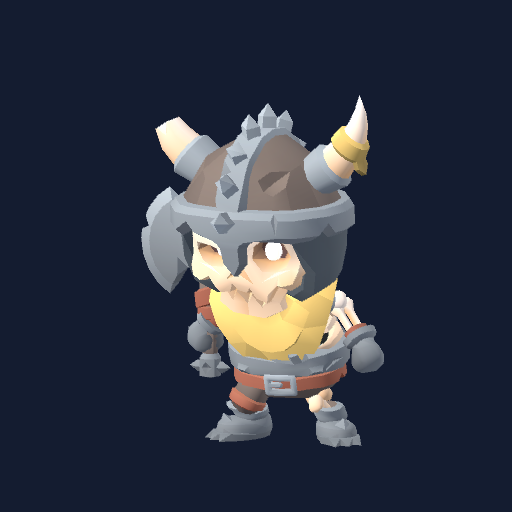
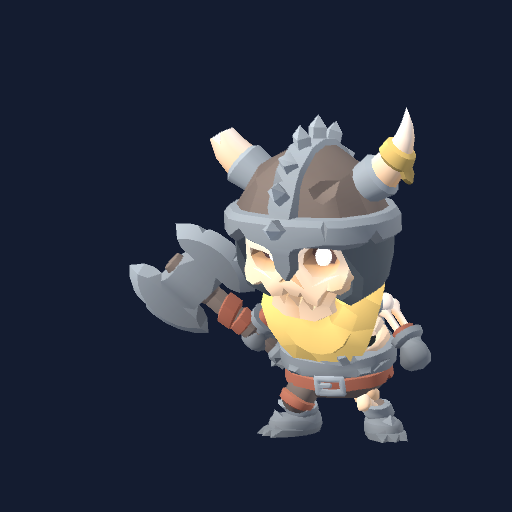
Update Pencil guide for deployed 0.6.38 skeleton loadouts

Changed region(s): [[0.25, 0.1875, 0.8438, 0.875]]

diff --git a/games/project-pencil/index.html b/games/project-pencil/index.html
@@ -110,9 +110,9 @@
 }
 </script>
 </head>
-<body><a class="skip" href="#main">Skip to content</a><header class="site-header"><div class="wrap header-inner"><a aria-label="Wobumii home" class="brand" href="/"><img alt="Wobumii" class="brand-logo" height="515" src="/assets/wobumii-wordmark.png" width="1778"/></a><nav aria-label="Main navigation"><a href="/#games">Games</a><a href="/#about">About me</a><a href="#contact">Contact</a><a class="nav-external" href="https://wobumii.itch.io/" rel="noopener noreferrer" target="_blank">itch.io <span aria-hidden="true">↗</span></a></nav></div></header><main class="wrap wiki" id="main"><a class="back-link" href="/#games">← Back to all games</a><section class="wiki-hero project-pencil"><div><p class="eyebrow">GAME GUIDE / DRAWING ADVENTURE</p><h1>Project Pencil</h1><p class="wiki-tagline">Draw your way through.</p><p>A first-person adventure where your sketches become tools, weapons, and new ways forward.</p><div class="tags"><span>IN DEVELOPMENT</span><span>PC</span></div><div aria-label="Get Project Pencil" class="store-buttons"><a class="store-button" href="https://wobumii.itch.io/project-pencil" rel="noopener noreferrer" target="_blank"><span aria-hidden="true" class="store-icon"><img alt="" height="22" src="/assets/platforms/itchdotio.svg" width="22"/></span><span class="store-label">itch.io</span><span aria-hidden="true" class="store-action">Go to itch.io <span>↗</span></span></a><button aria-disabled="true" aria-label="Steam — unavailable" class="store-button store-button--steam" disabled="" tabindex="-1" title="Not available yet" type="button"><span aria-hidden="true" class="store-icon"><img alt="" height="22" src="/assets/platforms/steam.svg" width="22"/></span><span class="store-label">Steam</span></button><button aria-disabled="true" aria-label="Epic Games — unavailable" class="store-button store-button--epic" disabled="" tabindex="-1" title="Not available yet" type="button"><span aria-hidden="true" class="store-icon"><img alt="" height="22" src="/assets/platforms/epicgames.svg" width="22"/></span><span class="store-label">Epic Games</span></button></div></div><div class="game-cover"><img alt="Project Pencil game artwork" height="500" src="/assets/project-pencil.png" width="630"/></div></section><div class="wiki-layout"><aside><nav aria-label="On this page" class="wiki-nav"><p class="eyebrow">FIELD GUIDE</p><a href="#overview">The idea</a><a href="#mechanics">From a sketch to a solution</a><a href="#equipment">Tools &amp; inventory</a><a href="#story">Story: The Fading World</a><a href="#modes">Ways to play</a><a href="#items">Items &amp; recipes</a><a href="#mobs">Mobs &amp; bosses</a><a href="#controls">PC controls</a><a href="#faq">Quick answers</a><a href="/#games">← Game collection</a></nav></aside><div class="wiki-content"><p class="dev-note">A guide to the current development version. Version 0.6.36 is deployed; 0.6.37 is prepared with updated Story narration. Mechanics and balancing may change as the game grows.</p><section class="wiki-section" id="overview"><h2>The idea</h2><p>What if the thing you needed was only a sketch away? Project Pencil is a first-person drawing adventure where recognizable shapes become real objects in the world. Discover blueprints, bring your drawings to life, and use them to explore and survive.</p><p>Start with <strong>Learn to Draw</strong>: select a map, then choose <strong>Guided lesson</strong> for the five-step tutorial or <strong>Start practice</strong> for free drawing with standard recipes unlocked. Then enter <strong>The Fading World</strong> or try multiplayer.</p>
+<body><a class="skip" href="#main">Skip to content</a><header class="site-header"><div class="wrap header-inner"><a aria-label="Wobumii home" class="brand" href="/"><img alt="Wobumii" class="brand-logo" height="515" src="/assets/wobumii-wordmark.png" width="1778"/></a><nav aria-label="Main navigation"><a href="/#games">Games</a><a href="/#about">About me</a><a href="#contact">Contact</a><a class="nav-external" href="https://wobumii.itch.io/" rel="noopener noreferrer" target="_blank">itch.io <span aria-hidden="true">↗</span></a></nav></div></header><main class="wrap wiki" id="main"><a class="back-link" href="/#games">← Back to all games</a><section class="wiki-hero project-pencil"><div><p class="eyebrow">GAME GUIDE / DRAWING ADVENTURE</p><h1>Project Pencil</h1><p class="wiki-tagline">Draw your way through.</p><p>A first-person adventure where your sketches become tools, weapons, and new ways forward.</p><div class="tags"><span>IN DEVELOPMENT</span><span>PC</span></div><div aria-label="Get Project Pencil" class="store-buttons"><a class="store-button" href="https://wobumii.itch.io/project-pencil" rel="noopener noreferrer" target="_blank"><span aria-hidden="true" class="store-icon"><img alt="" height="22" src="/assets/platforms/itchdotio.svg" width="22"/></span><span class="store-label">itch.io</span><span aria-hidden="true" class="store-action">Go to itch.io <span>↗</span></span></a><button aria-disabled="true" aria-label="Steam — unavailable" class="store-button store-button--steam" disabled="" tabindex="-1" title="Not available yet" type="button"><span aria-hidden="true" class="store-icon"><img alt="" height="22" src="/assets/platforms/steam.svg" width="22"/></span><span class="store-label">Steam</span></button><button aria-disabled="true" aria-label="Epic Games — unavailable" class="store-button store-button--epic" disabled="" tabindex="-1" title="Not available yet" type="button"><span aria-hidden="true" class="store-icon"><img alt="" height="22" src="/assets/platforms/epicgames.svg" width="22"/></span><span class="store-label">Epic Games</span></button></div></div><div class="game-cover"><img alt="Project Pencil game artwork" height="500" src="/assets/project-pencil.png" width="630"/></div></section><div class="wiki-layout"><aside><nav aria-label="On this page" class="wiki-nav"><p class="eyebrow">FIELD GUIDE</p><a href="#overview">The idea</a><a href="#mechanics">From a sketch to a solution</a><a href="#equipment">Tools &amp; inventory</a><a href="#story">Story: The Fading World</a><a href="#modes">Ways to play</a><a href="#items">Items &amp; recipes</a><a href="#mobs">Mobs &amp; bosses</a><a href="#controls">PC controls</a><a href="#faq">Quick answers</a><a href="/#games">← Game collection</a></nav></aside><div class="wiki-content"><p class="dev-note">A guide to the current development version. Version 0.6.38 is deployed. Mechanics and balancing may change as the game grows.</p><section class="wiki-section" id="overview"><h2>The idea</h2><p>What if the thing you needed was only a sketch away? Project Pencil is a first-person drawing adventure where recognizable shapes become real objects in the world. Discover blueprints, bring your drawings to life, and use them to explore and survive.</p><p>Start with <strong>Learn to Draw</strong>: select a map, then choose <strong>Guided lesson</strong> for the five-step tutorial or <strong>Start practice</strong> for free drawing with standard recipes unlocked. Then enter <strong>The Fading World</strong> or try multiplayer.</p>
 <aside aria-label="Creative work and AI disclosure" class="about-manifesto"><p class="eyebrow">CREATIVE WORK &amp; AI DISCLOSURE</p><h3>Story, mechanics &amp; assets</h3><p>The story and game mechanics are my own. The assets come from other creators, whose work is acknowledged on the <a href="/credits/">Credits page</a>.</p><p>AI is used only as a coding assistant. No AI-generated artwork was used.</p></aside>
-</section><section class="wiki-section" id="mechanics"><h2>From a sketch to a solution</h2><div class="info-grid"><article class="info-card"><h3>01 / Discover</h3><p>Recognition matches predefined recipes; rough or similar shapes can still fail. Open the Sketchbook with Tab, use V for the optional tracing outline, and Z or X to change recipes. R cancels a sketch. Nearby walls, floors and characters can also carry cosmetic ink.</p></article><article class="info-card"><h3>02 / Draw</h3><p>Select your pencil with F. Hold left click and trace a recipe shape. Release and pause for half a second to finish. Close-together strokes combine into one drawing.</p></article><article class="info-card"><h3>03 / Bring it to life</h3><p>A recognized recipe creates a physical object and spends drawing energy. Draw ordinary items in clear space, Doors on walls, and circular Holes on floors. Blueprint, energy and placement rules still apply.</p></article><article class="info-card"><h3>04 / Make it count</h3><p>Collect the object with E, then use it in the world. Draw weapons, protection, ammunition, and ways through the environment.</p></article></div><h3>Drawing tips</h3><p>Recognition uses predefined recipes, rather than turning any image into an object. Moderate tilt and size variation are accepted. Open the Sketchbook with Tab and use V for the tracing outline. Z and X change the selected drawing. R cancels a sketch.</p></section><section class="wiki-section" id="equipment"><h2>Tools &amp; inventory</h2><div class="info-grid"><article class="info-card"><h3>Weapons &amp; ammunition</h3><p>Draw and collect weapons and their ammunition separately. Melee weapons have limited uses. Reload ranged equipment with the ammunition you carry.</p></article><article class="info-card"><h3>Wearable equipment</h3><p>Equip helmets, armor, boots, quivers and pouches. Customize your scribbler’s gender, character, hairstyle, skin, hair, outfit and leg colors from the menu.</p></article><article class="info-card"><h3>Doors &amp; floor Holes</h3><p>Draw a Door near the bottom of a nearby wall. A circle on a floor creates a temporary Hole; the same circle drawn in open space is a Marble. Items need clear space away from surfaces.</p></article><article class="info-card"><h3>Five inventory slots</h3><p>Select slots with 1–5 or the mouse wheel; F returns to the permanent pencil. Ammunition stacks in the inventory. Tab opens the folder-style Sketchbook with its recipe tabs.</p></article></div></section><section class="wiki-section" id="story"><h2>Story: The Fading World</h2><p>Follow a five-map chapter through <strong>The Workshop → The Stacks → The Foundry → The Glasshouse → The Observatory</strong>. Collect the first Sword and Door blueprints in the Workshop, then draw your way into four dungeons. Clear enemies, defeat each guardian and complete the tool trial before drawing the exit Door. Named maps act as checkpoints.</p><p>The scenery gradually loses its color, becoming paper and graphite while your character retains its chosen colors and important information remains readable. Reach the Observatory’s top floor and defeat the Last Eraser to reveal its hidden Heart of Color. Collect the Heart to restore the world.</p><details><summary>Reveal the guardians and final encounter</summary><p>The four dungeon guardians are The Crypt Warlord, The Archive Yeti, The Foundry Demon, and The Glasshouse Behemoth. The finale is the Last Eraser, a huge stone titan at the Observatory rooftop edge. Dodge its warned palm smashes, leave the active pigment-absorption zone and attack its head or palms during recovery.</p></details></section><section class="wiki-section" id="modes"><h2>Ways to play</h2><div class="info-grid"><article class="info-card"><h3>Learn to Draw &amp; Story</h3><p>Choose a map for a five-step Guided lesson or free practice, with standard recipes unlocked and faster energy recovery. Story follows The Fading World through its connected maps and dungeons.</p></article><article class="info-card"><h3>Defense / 1–4 players</h3><p>Survive ten waves. Each player starts with five lives. The first four deaths bring a ten-second respawn; the fifth leaves a walking spectator soul. Wave clears do not refill lives. The final wave rallies standing players to the rooftop titan, with mounted crossbows and marble machine guns.</p></article><article class="info-card"><h3>Clash / 2–4 per team</h3><p>First to 20 eliminations, with an eight-minute round limit. A death becomes a ten-second soul interval before returning to your own court.</p></article><article class="info-card"><h3>Purge / 4–8 players</h3><p>Survive across five connected maps inside a shrinking safe zone. No respawns; eliminated players watch a survivor. The last player standing wins.</p></article></div><p>Choose Online for EOS rooms or Local Network for LAN play. Everyone needs a matching game version; the room creator runs the match and must stay connected.</p></section><section class="wiki-section" id="items"><h2>Items &amp; drawing recipes</h2><p>All <strong>30 drawable recipes</strong>, plus your permanent Pencil. The names and descriptions below follow the in-game recipe guide. Blueprint availability depends on the mode and your progress.</p><h3>Permanent</h3><div class="info-grid item-list"><article class="info-card item-card" id="item-pencil"><img alt="" class="item-portrait" decoding="async" height="512" loading="lazy" src="/assets/item-images/pencil.png" width="512"/><h4>Pencil</h4><p>Your one permanent tool. Draw an idea into existence.</p></article></div><h3>Weapons</h3><div class="info-grid item-list"><article class="info-card item-card" id="item-knife"><img alt="" class="item-portrait" decoding="async" height="512" loading="lazy" src="/assets/item-images/knife.png" width="512"/><h4>Knife</h4><p>Quick, close-range strikes.</p></article><article class="info-card item-card" id="item-karambit"><img alt="" class="item-portrait" decoding="async" height="512" loading="lazy" src="/assets/item-images/karambit.png" width="512"/><h4>Karambit</h4><p>A hooked blade for quick slashes.</p></article><article class="info-card item-card" id="item-dagger"><img alt="" class="item-portrait" decoding="async" height="512" loading="lazy" src="/assets/item-images/dagger.png" width="512"/><h4>Dagger</h4><p>Draw a triangle on top and one straight line below for the handle. A quick primary slash.</p></article><article class="info-card item-card" id="item-sword"><img alt="" class="item-portrait" decoding="async" height="512" loading="lazy" src="/assets/item-images/sword.png" width="512"/><h4>Sword</h4><p>A balanced blade. Left: slash. Right: smash.</p></article><article class="info-card item-card" id="item-axe"><img alt="" class="item-portrait" decoding="async" height="512" loading="lazy" src="/assets/item-images/axe.png" width="512"/><h4>Axe</h4><p>Heavy blows with a slower recovery.</p></article><article class="info-card item-card" id="item-sickle"><img alt="" class="item-portrait" decoding="async" height="512" loading="lazy" src="/assets/item-images/sickle.png" width="512"/><h4>Sickle</h4><p>A curved harvesting blade.</p></article><article class="info-card item-card" id="item-nunchuck"><img alt="" class="item-portrait" decoding="async" height="512" loading="lazy" src="/assets/item-images/nunchuck.png" width="512"/><h4>Nunchaku</h4><p>Two colored handles connected by a chain.</p></article><article class="info-card item-card" id="item-hammer"><img alt="" class="item-portrait" decoding="async" height="512" loading="lazy" src="/assets/item-images/hammer.png" width="512"/><h4>Hammer</h4><p>A heavy overhead smash.</p></article><article class="info-card item-card" id="item-club"><img alt="" class="item-portrait" decoding="async" height="512" loading="lazy" src="/assets/item-images/club.png" width="512"/><h4>Club</h4><p>A simple blunt weapon.</p></article><article class="info-card item-card" id="item-thorn_club"><img alt="" class="item-portrait" decoding="async" height="512" loading="lazy" src="/assets/item-images/thorn_club.png" width="512"/><h4>Thorn Club</h4><p>A wooden club with short thorns around its rounded head.</p></article><article class="info-card item-card" id="item-bat"><img alt="" class="item-portrait" decoding="async" height="512" loading="lazy" src="/assets/item-images/bat.png" width="512"/><h4>Bat</h4><p>A round wooden bat with a narrow grip. Long reach and a broad swing.</p></article><article class="info-card item-card" id="item-slingshot"><img alt="" class="item-portrait" decoding="async" height="512" loading="lazy" src="/assets/item-images/slingshot.png" width="512"/><h4>Slingshot</h4><p>Consumes marbles from your backpack.</p></article><article class="info-card item-card" id="item-bow"><img alt="" class="item-portrait" decoding="async" height="512" loading="lazy" src="/assets/item-images/bow.png" width="512"/><h4>Bow</h4><p>Draw a D in one stroke. Uses arrows drawn separately.</p></article><article class="info-card item-card" id="item-bomb"><img alt="" class="item-portrait" decoding="async" height="512" loading="lazy" src="/assets/item-images/bomb.png" width="512"/><h4>Bomb</h4><p>Throw to light a three-second fuse.</p></article><article class="info-card item-card" id="item-bowling_ball"><img alt="" class="item-portrait" decoding="async" height="512" loading="lazy" src="/assets/item-images/bowling_ball.png" width="512"/><h4>Bowling Ball</h4><p>Falling speed increases impact damage.</p></article></div><h3>Ammunition</h3><div class="info-grid item-list"><article class="info-card item-card" id="item-shuriken"><img alt="" class="item-portrait" decoding="async" height="512" loading="lazy" src="/assets/item-images/shuriken.png" width="512"/><h4>Shuriken</h4><p>Draw a four-point star or a simple cross. Spins and sticks to solid surfaces.</p></article><article class="info-card item-card" id="item-pebbles"><img alt="" class="item-portrait" decoding="async" height="512" loading="lazy" src="/assets/item-images/pebbles.png" width="512"/><h4>Marble</h4><p>Adds one marble to your backpack.</p></article><article class="info-card item-card" id="item-arrows"><img alt="" class="item-portrait" decoding="async" height="512" loading="lazy" src="/assets/item-images/arrows.png" width="512"/><h4>Arrows</h4><p>Draw a straight shaft and both sides of an open arrowhead. No tail feathers needed. Adds one arrow.</p></article></div><h3>Armor</h3><div class="info-grid item-list"><article class="info-card item-card" id="item-helm"><img alt="" class="item-portrait" decoding="async" height="512" loading="lazy" src="/assets/item-images/helm.png" width="512"/><h4>Helm</h4><p>Equip for 15 armor points.</p></article><article class="info-card item-card" id="item-plate"><img alt="" class="item-portrait" decoding="async" height="512" loading="lazy" src="/assets/item-images/plate.png" width="512"/><h4>Armor Plate</h4><p>Equip for 35 armor points.</p></article><article class="info-card item-card" id="item-boots"><img alt="" class="item-portrait" decoding="async" height="512" loading="lazy" src="/assets/item-images/boots.png" width="512"/><h4>Boots</h4><p>Equip for 15 armor points.</p></article><article class="info-card item-card" id="item-spring_boots"><img alt="" class="item-portrait" decoding="async" height="512" loading="lazy" src="/assets/item-images/spring_boots.png" width="512"/><h4>Spring Boots</h4><p>Five high jumps with no fall damage, then becomes normal boots.</p></article></div><h3>Utilities</h3><div class="info-grid item-list"><article class="info-card item-card" id="item-shield"><img alt="" class="item-portrait" decoding="async" height="512" loading="lazy" src="/assets/item-images/shield.png" width="512"/><h4>Shield</h4><p>Push enemies back without damage. Stow on your back to use other items.</p></article><article class="info-card item-card" id="item-pouch"><img alt="" class="item-portrait" decoding="async" height="512" loading="lazy" src="/assets/item-images/pouch.png" width="512"/><h4>Pouch</h4><p>Draw a vase outline with a narrow neck and wide, rounded body. Equip to carry up to 20 marbles.</p></article><article class="info-card item-card" id="item-quiver"><img alt="" class="item-portrait" decoding="async" height="512" loading="lazy" src="/assets/item-images/quiver.png" width="512"/><h4>Quiver</h4><p>Equip to increase arrow storage from 1 to 20.</p></article><article class="info-card item-card" id="item-box"><img alt="" class="item-portrait" decoding="async" height="512" loading="lazy" src="/assets/item-images/box.png" width="512"/><h4>Box</h4><p>Draw a square. A solid step or barricade lasting two minutes.</p></article><article class="info-card item-card" id="item-portal"><img alt="" class="item-portrait" decoding="async" height="512" loading="lazy" src="/assets/item-images/portal.png" width="512"/><h4>Door</h4><p>Draw a rectangle with a small circle inside for the doorknob. Draw near the wall bottom; both doors snap to the floor.</p></article><article class="info-card item-card" id="item-hole"><img alt="" class="item-portrait" decoding="async" height="512" loading="lazy" src="/assets/item-images/hole.png" width="512"/><h4>Hole</h4><p>Draw a circle on a nearby floor within 12 feet; an X inside is optional. Size follows your drawing; ground floors become pits. The floor and its artwork return when the Hole expires.</p></article></div><h3>Optional secret recipes</h3><p>Enable Secret recipes in Settings to reveal their drawing guides.</p><div class="info-grid item-list"><article class="info-card item-card" id="item-secret_bomb"><img alt="" class="item-portrait" decoding="async" height="512" loading="lazy" src="/assets/item-images/secret_bomb.png" width="512"/><h4>Secret Bomb</h4><p>An optional sticky explosive. It sticks on impact; drawing size controls the blast radius.</p></article><article class="info-card item-card" id="item-claw_trap"><img alt="" class="item-portrait" decoding="async" height="512" loading="lazy" src="/assets/item-images/claw_trap.png" width="512"/><h4>Clawed Trap</h4><p>An optional drawn trap, available through the Secret recipes setting.</p></article></div></section><section class="wiki-section" id="mobs"><h2>Mobs &amp; bosses</h2><p>Skeleton minions, rogues, mages and warriors fill the dungeons and Defense waves. Guardians and the rooftop titan have their own encounters. Health and damage scale with the encounter.</p><div class="info-grid mob-list"><article class="info-card mob-card"><img alt="" class="mob-portrait" decoding="async" height="512" loading="lazy" src="/assets/mob-images/project-pencil-wraith.png" width="512"/><h3>Skeleton Minion</h3><p>Closes the distance and attacks at close range.</p></article><article class="info-card mob-card"><img alt="" class="mob-portrait" decoding="async" height="512" loading="lazy" src="/assets/mob-images/project-pencil-skitter.png" width="512"/><h3>Skeleton Rogue · Lunge</h3><p>A fast melee pursuer with a warned lunge.</p></article><article class="info-card mob-card"><img alt="" class="mob-portrait" decoding="async" height="512" loading="lazy" src="/assets/mob-images/project-pencil-spitter.png" width="512"/><h3>Skeleton Mage · Bolt</h3><p>Fires a ranged bolt; use cover or sidestep.</p></article><article class="info-card mob-card"><img alt="" class="mob-portrait" decoding="async" height="512" loading="lazy" src="/assets/mob-images/project-pencil-brute.png" width="512"/><h3>Skeleton Warrior · Slam</h3><p>A heavy melee enemy with a warned area slam.</p></article><article class="info-card mob-card"><img alt="" class="mob-portrait" decoding="async" height="512" loading="lazy" src="/assets/mob-images/project-pencil-sentinel.png" width="512"/><h3>Skeleton Warrior · Slam</h3><p>A heavy sentinel variant; leave the slam area before impact.</p></article><article class="info-card mob-card"><img alt="" class="mob-portrait" decoding="async" height="512" loading="lazy" src="/assets/mob-images/project-pencil-thorn.png" width="512"/><h3>Skeleton Mage · Volley</h3><p>Fires a spreading volley; use cover.</p></article><article class="info-card mob-card"><img alt="" class="mob-portrait" decoding="async" height="512" loading="lazy" src="/assets/mob-images/project-pencil-eraser.png" width="512"/><h3>The Last Eraser · Titan Golem</h3><p>The rooftop final boss. Avoid its palm smashes and pigment absorption, then attack its head and palms during recovery.</p></article></div><details><summary>Reveal the named dungeon guardians</summary><p>The Crypt Warlord, The Archive Yeti, The Foundry Demon, The Glasshouse Behemoth.</p></details></section><section class="wiki-section" id="controls"><h2>PC controls</h2><div class="table-scroll"><table><thead><tr><th scope="col">Key / input</th><th scope="col">Action</th></tr></thead><tbody><tr><td><kbd>W A S D / Mouse</kbd></td><td>Move / look</td></tr><tr><td><kbd>Shift / Space / C</kbd></td><td>Sprint / jump / crouch</td></tr><tr><td><kbd>F</kbd></td><td>Select the permanent pencil</td></tr><tr><td><kbd>Hold left click</kbd></td><td>Draw with the pencil; use the selected item otherwise</td></tr><tr><td><kbd>Tab / V</kbd></td><td>Sketchbook / tracing outline</td></tr><tr><td><kbd>Z / X</kbd></td><td>Previous / next recipe</td></tr><tr><td><kbd>R</kbd></td><td>Cancel drawing; reload appropriate equipped ranged equipment</td></tr><tr><td><kbd>E</kbd></td><td>Pick up items and blueprints; interact with mounted weapons</td></tr><tr><td><kbd>1–5 / Mouse wheel</kbd></td><td>Select inventory slot</td></tr><tr><td><kbd>Q</kbd></td><td>Drop selected item</td></tr><tr><td><kbd>T</kbd></td><td>Hold for voice, when enabled</td></tr><tr><td><kbd>Escape</kbd></td><td>Pause</td></tr></tbody></table></div></section><section class="wiki-section" id="faq"><h2>Quick answers</h2><details><summary>Can I draw absolutely anything?</summary><p>The game recognizes a catalog of 30 predefined recipes. Your sketch must match a known shape; it is not an unrestricted image-to-object system.</p></details><details><summary>Why didn’t my drawing appear?</summary><p>Check that you know the blueprint, have enough drawing energy, and followed its shape. Release the mouse and give the game half a second to recognize it.</p></details><details><summary>Where can I follow development?</summary><p>Visit <a href="https://wobumii.itch.io/" rel="noopener noreferrer" target="_blank">Wobumii on itch.io</a> for the studio’s updates and available projects.</p></details></section><a class="button secondary" href="/#games">← Back to the collection</a></div></div><section aria-labelledby="feedback-heading" class="wrap contact-section" id="contact">
+</section><section class="wiki-section" id="mechanics"><h2>From a sketch to a solution</h2><div class="info-grid"><article class="info-card"><h3>01 / Discover</h3><p>Recognition matches predefined recipes; rough or similar shapes can still fail. Open the Sketchbook with Tab, use V for the optional tracing outline, and Z or X to change recipes. R cancels a sketch. Nearby walls, floors and characters can also carry cosmetic ink.</p></article><article class="info-card"><h3>02 / Draw</h3><p>Select your pencil with F. Hold left click and trace a recipe shape. Release and pause for half a second to finish. Close-together strokes combine into one drawing.</p></article><article class="info-card"><h3>03 / Bring it to life</h3><p>A recognized recipe creates a physical object and spends drawing energy. Draw ordinary items in clear space, Doors on walls, and circular Holes on floors. Blueprint, energy and placement rules still apply.</p></article><article class="info-card"><h3>04 / Make it count</h3><p>Collect the object with E, then use it in the world. Draw weapons, protection, ammunition, and ways through the environment.</p></article></div><h3>Drawing tips</h3><p>Recognition uses predefined recipes, rather than turning any image into an object. Moderate tilt and size variation are accepted. Open the Sketchbook with Tab and use V for the tracing outline. Z and X change the selected drawing. R cancels a sketch.</p></section><section class="wiki-section" id="equipment"><h2>Tools &amp; inventory</h2><div class="info-grid"><article class="info-card"><h3>Weapons &amp; ammunition</h3><p>Draw and collect weapons and their ammunition separately. Melee weapons have limited uses. Reload ranged equipment with the ammunition you carry.</p></article><article class="info-card"><h3>Wearable equipment</h3><p>Equip helmets, armor, boots, quivers and pouches. Customize your scribbler’s gender, character, hairstyle, skin, hair, outfit and leg colors from the menu.</p></article><article class="info-card"><h3>Doors &amp; floor Holes</h3><p>Draw a Door near the bottom of a nearby wall. A circle on a floor creates a temporary Hole; the same circle drawn in open space is a Marble. Items need clear space away from surfaces.</p></article><article class="info-card"><h3>Five inventory slots</h3><p>Select slots with 1–5 or the mouse wheel; F returns to the permanent pencil. Ammunition stacks in the inventory. Tab opens the folder-style Sketchbook with its recipe tabs.</p></article></div></section><section class="wiki-section" id="story"><h2>Story: The Fading World</h2><p>Follow a five-map chapter through <strong>The Workshop → The Stacks → The Foundry → The Glasshouse → The Observatory</strong>. Collect the first Sword and Door blueprints in the Workshop, then draw your way into four dungeons. Clear enemies, defeat each guardian and complete the tool trial before drawing the exit Door. Named maps act as checkpoints.</p><p>The scenery gradually loses its color, becoming paper and graphite while your character retains its chosen colors and important information remains readable. Reach the Observatory’s top floor and defeat the Last Eraser to reveal its hidden Heart of Color. Collect the Heart to restore the world.</p><details><summary>Reveal the guardians and final encounter</summary><p>The four dungeon guardians are The Crypt Warlord, The Archive Yeti, The Foundry Demon, and The Glasshouse Behemoth. The finale is the Last Eraser, a huge stone titan at the Observatory rooftop edge. Dodge its warned palm smashes, leave the active pigment-absorption zone and attack its head or palms during recovery.</p></details></section><section class="wiki-section" id="modes"><h2>Ways to play</h2><div class="info-grid"><article class="info-card"><h3>Learn to Draw &amp; Story</h3><p>Choose a map for a five-step Guided lesson or free practice, with standard recipes unlocked and faster energy recovery. Story follows The Fading World through its connected maps and dungeons.</p></article><article class="info-card"><h3>Defense / 1–4 players</h3><p>Survive ten waves. Each player starts with five lives. The first four deaths bring a ten-second respawn; the fifth leaves a walking spectator soul. Wave clears do not refill lives. The final wave rallies standing players to the rooftop titan, with mounted crossbows and marble machine guns.</p></article><article class="info-card"><h3>Clash / 2–4 per team</h3><p>First to 20 eliminations, with an eight-minute round limit. A death becomes a ten-second soul interval before returning to your own court.</p></article><article class="info-card"><h3>Purge / 4–8 players</h3><p>Survive across five connected maps inside a shrinking safe zone. No respawns; eliminated players watch a survivor. The last player standing wins.</p></article></div><p>Choose Online for EOS rooms or Local Network for LAN play. Everyone needs a matching game version; the room creator runs the match and must stay connected.</p></section><section class="wiki-section" id="items"><h2>Items &amp; drawing recipes</h2><p>All <strong>30 drawable recipes</strong>, plus your permanent Pencil. The names and descriptions below follow the in-game recipe guide. Blueprint availability depends on the mode and your progress.</p><h3>Permanent</h3><div class="info-grid item-list"><article class="info-card item-card" id="item-pencil"><img alt="" class="item-portrait" decoding="async" height="512" loading="lazy" src="/assets/item-images/pencil.png" width="512"/><h4>Pencil</h4><p>Your one permanent tool. Draw an idea into existence.</p></article></div><h3>Weapons</h3><div class="info-grid item-list"><article class="info-card item-card" id="item-knife"><img alt="" class="item-portrait" decoding="async" height="512" loading="lazy" src="/assets/item-images/knife.png" width="512"/><h4>Knife</h4><p>Quick, close-range strikes.</p></article><article class="info-card item-card" id="item-karambit"><img alt="" class="item-portrait" decoding="async" height="512" loading="lazy" src="/assets/item-images/karambit.png" width="512"/><h4>Karambit</h4><p>A hooked blade for quick slashes.</p></article><article class="info-card item-card" id="item-dagger"><img alt="" class="item-portrait" decoding="async" height="512" loading="lazy" src="/assets/item-images/dagger.png" width="512"/><h4>Dagger</h4><p>Draw a triangle on top and one straight line below for the handle. A quick primary slash.</p></article><article class="info-card item-card" id="item-sword"><img alt="" class="item-portrait" decoding="async" height="512" loading="lazy" src="/assets/item-images/sword.png" width="512"/><h4>Sword</h4><p>A balanced blade. Left: slash. Right: smash.</p></article><article class="info-card item-card" id="item-axe"><img alt="" class="item-portrait" decoding="async" height="512" loading="lazy" src="/assets/item-images/axe.png" width="512"/><h4>Axe</h4><p>Heavy blows with a slower recovery.</p></article><article class="info-card item-card" id="item-sickle"><img alt="" class="item-portrait" decoding="async" height="512" loading="lazy" src="/assets/item-images/sickle.png" width="512"/><h4>Sickle</h4><p>A curved harvesting blade.</p></article><article class="info-card item-card" id="item-nunchuck"><img alt="" class="item-portrait" decoding="async" height="512" loading="lazy" src="/assets/item-images/nunchuck.png" width="512"/><h4>Nunchaku</h4><p>Two colored handles connected by a chain.</p></article><article class="info-card item-card" id="item-hammer"><img alt="" class="item-portrait" decoding="async" height="512" loading="lazy" src="/assets/item-images/hammer.png" width="512"/><h4>Hammer</h4><p>A heavy overhead smash.</p></article><article class="info-card item-card" id="item-club"><img alt="" class="item-portrait" decoding="async" height="512" loading="lazy" src="/assets/item-images/club.png" width="512"/><h4>Club</h4><p>A simple blunt weapon.</p></article><article class="info-card item-card" id="item-thorn_club"><img alt="" class="item-portrait" decoding="async" height="512" loading="lazy" src="/assets/item-images/thorn_club.png" width="512"/><h4>Thorn Club</h4><p>A wooden club with short thorns around its rounded head.</p></article><article class="info-card item-card" id="item-bat"><img alt="" class="item-portrait" decoding="async" height="512" loading="lazy" src="/assets/item-images/bat.png" width="512"/><h4>Bat</h4><p>A round wooden bat with a narrow grip. Long reach and a broad swing.</p></article><article class="info-card item-card" id="item-slingshot"><img alt="" class="item-portrait" decoding="async" height="512" loading="lazy" src="/assets/item-images/slingshot.png" width="512"/><h4>Slingshot</h4><p>Consumes marbles from your backpack.</p></article><article class="info-card item-card" id="item-bow"><img alt="" class="item-portrait" decoding="async" height="512" loading="lazy" src="/assets/item-images/bow.png" width="512"/><h4>Bow</h4><p>Draw a D in one stroke. Uses arrows drawn separately.</p></article><article class="info-card item-card" id="item-bomb"><img alt="" class="item-portrait" decoding="async" height="512" loading="lazy" src="/assets/item-images/bomb.png" width="512"/><h4>Bomb</h4><p>Throw to light a three-second fuse.</p></article><article class="info-card item-card" id="item-bowling_ball"><img alt="" class="item-portrait" decoding="async" height="512" loading="lazy" src="/assets/item-images/bowling_ball.png" width="512"/><h4>Bowling Ball</h4><p>Falling speed increases impact damage.</p></article></div><h3>Ammunition</h3><div class="info-grid item-list"><article class="info-card item-card" id="item-shuriken"><img alt="" class="item-portrait" decoding="async" height="512" loading="lazy" src="/assets/item-images/shuriken.png" width="512"/><h4>Shuriken</h4><p>Draw a four-point star or a simple cross. Spins and sticks to solid surfaces.</p></article><article class="info-card item-card" id="item-pebbles"><img alt="" class="item-portrait" decoding="async" height="512" loading="lazy" src="/assets/item-images/pebbles.png" width="512"/><h4>Marble</h4><p>Adds one marble to your backpack.</p></article><article class="info-card item-card" id="item-arrows"><img alt="" class="item-portrait" decoding="async" height="512" loading="lazy" src="/assets/item-images/arrows.png" width="512"/><h4>Arrows</h4><p>Draw a straight shaft and both sides of an open arrowhead. No tail feathers needed. Adds one arrow.</p></article></div><h3>Armor</h3><div class="info-grid item-list"><article class="info-card item-card" id="item-helm"><img alt="" class="item-portrait" decoding="async" height="512" loading="lazy" src="/assets/item-images/helm.png" width="512"/><h4>Helm</h4><p>Equip for 15 armor points.</p></article><article class="info-card item-card" id="item-plate"><img alt="" class="item-portrait" decoding="async" height="512" loading="lazy" src="/assets/item-images/plate.png" width="512"/><h4>Armor Plate</h4><p>Equip for 35 armor points.</p></article><article class="info-card item-card" id="item-boots"><img alt="" class="item-portrait" decoding="async" height="512" loading="lazy" src="/assets/item-images/boots.png" width="512"/><h4>Boots</h4><p>Equip for 15 armor points.</p></article><article class="info-card item-card" id="item-spring_boots"><img alt="" class="item-portrait" decoding="async" height="512" loading="lazy" src="/assets/item-images/spring_boots.png" width="512"/><h4>Spring Boots</h4><p>Five high jumps with no fall damage, then becomes normal boots.</p></article></div><h3>Utilities</h3><div class="info-grid item-list"><article class="info-card item-card" id="item-shield"><img alt="" class="item-portrait" decoding="async" height="512" loading="lazy" src="/assets/item-images/shield.png" width="512"/><h4>Shield</h4><p>Push enemies back without damage. Stow on your back to use other items.</p></article><article class="info-card item-card" id="item-pouch"><img alt="" class="item-portrait" decoding="async" height="512" loading="lazy" src="/assets/item-images/pouch.png" width="512"/><h4>Pouch</h4><p>Draw a vase outline with a narrow neck and wide, rounded body. Equip to carry up to 20 marbles.</p></article><article class="info-card item-card" id="item-quiver"><img alt="" class="item-portrait" decoding="async" height="512" loading="lazy" src="/assets/item-images/quiver.png" width="512"/><h4>Quiver</h4><p>Equip to increase arrow storage from 1 to 20.</p></article><article class="info-card item-card" id="item-box"><img alt="" class="item-portrait" decoding="async" height="512" loading="lazy" src="/assets/item-images/box.png" width="512"/><h4>Box</h4><p>Draw a square. A solid step or barricade lasting two minutes.</p></article><article class="info-card item-card" id="item-portal"><img alt="" class="item-portrait" decoding="async" height="512" loading="lazy" src="/assets/item-images/portal.png" width="512"/><h4>Door</h4><p>Draw a rectangle with a small circle inside for the doorknob. Draw near the wall bottom; both doors snap to the floor.</p></article><article class="info-card item-card" id="item-hole"><img alt="" class="item-portrait" decoding="async" height="512" loading="lazy" src="/assets/item-images/hole.png" width="512"/><h4>Hole</h4><p>Draw a circle on a nearby floor within 12 feet; an X inside is optional. Size follows your drawing; ground floors become pits. The floor and its artwork return when the Hole expires.</p></article></div><h3>Optional secret recipes</h3><p>Enable Secret recipes in Settings to reveal their drawing guides.</p><div class="info-grid item-list"><article class="info-card item-card" id="item-secret_bomb"><img alt="" class="item-portrait" decoding="async" height="512" loading="lazy" src="/assets/item-images/secret_bomb.png" width="512"/><h4>Secret Bomb</h4><p>An optional sticky explosive. It sticks on impact; drawing size controls the blast radius.</p></article><article class="info-card item-card" id="item-claw_trap"><img alt="" class="item-portrait" decoding="async" height="512" loading="lazy" src="/assets/item-images/claw_trap.png" width="512"/><h4>Clawed Trap</h4><p>An optional drawn trap, available through the Secret recipes setting.</p></article></div></section><section class="wiki-section" id="mobs"><h2>Mobs &amp; bosses</h2><p>The skeleton roster has six loadouts: unarmed, staff, sword, axe, crossbow and shield. Guardians and the rooftop titan have their own encounters. Health and damage scale with the encounter.</p><div class="info-grid mob-list"><article class="info-card mob-card"><img alt="" class="mob-portrait" decoding="async" height="512" loading="lazy" src="/assets/mob-images/project-pencil-wraith.png" width="512"/><h3>Skeleton Minion</h3><p>An unarmed skeleton that closes the distance and punches at close range.</p></article><article class="info-card mob-card"><img alt="" class="mob-portrait" decoding="async" height="512" loading="lazy" src="/assets/mob-images/project-pencil-skitter.png" width="512"/><h3>Skeleton Rogue · Lunge</h3><p>A fast sword-wielding pursuer that lunges into melee range.</p></article><article class="info-card mob-card"><img alt="" class="mob-portrait" decoding="async" height="512" loading="lazy" src="/assets/mob-images/project-pencil-spitter.png" width="512"/><h3>Skeleton Mage · Poison</h3><p>A staff caster whose ranged shot applies poison for four seconds. Use cover or sidestep.</p></article><article class="info-card mob-card"><img alt="" class="mob-portrait" decoding="async" height="512" loading="lazy" src="/assets/mob-images/project-pencil-brute.png" width="512"/><h3>Skeleton Warrior · Slam</h3><p>Carries an axe and warns before a heavy area slam.</p></article><article class="info-card mob-card"><img alt="" class="mob-portrait" decoding="async" height="512" loading="lazy" src="/assets/mob-images/project-pencil-sentinel.png" width="512"/><h3>Skeleton Sentinel · Shield Bash</h3><p>Carries only a shield. Its close-range bash knocks the target backward.</p></article><article class="info-card mob-card"><img alt="" class="mob-portrait" decoding="async" height="512" loading="lazy" src="/assets/mob-images/project-pencil-thorn.png" width="512"/><h3>Skeleton Crossbow · Volley</h3><p>Fires a spreading three-bolt crossbow volley. These bolts do not apply poison.</p></article><article class="info-card mob-card"><img alt="" class="mob-portrait" decoding="async" height="512" loading="lazy" src="/assets/mob-images/project-pencil-eraser.png" width="512"/><h3>The Last Eraser · Titan Golem</h3><p>The rooftop final boss. Avoid its palm smashes and pigment absorption, then attack its head and palms during recovery.</p></article></div><details><summary>Reveal the named dungeon guardians</summary><p>The Crypt Warlord, The Archive Yeti, The Foundry Demon, The Glasshouse Behemoth.</p></details></section><section class="wiki-section" id="controls"><h2>PC controls</h2><div class="table-scroll"><table><thead><tr><th scope="col">Key / input</th><th scope="col">Action</th></tr></thead><tbody><tr><td><kbd>W A S D / Mouse</kbd></td><td>Move / look</td></tr><tr><td><kbd>Shift / Space / C</kbd></td><td>Sprint / jump / crouch</td></tr><tr><td><kbd>F</kbd></td><td>Select the permanent pencil</td></tr><tr><td><kbd>Hold left click</kbd></td><td>Draw with the pencil; use the selected item otherwise</td></tr><tr><td><kbd>Tab / V</kbd></td><td>Sketchbook / tracing outline</td></tr><tr><td><kbd>Z / X</kbd></td><td>Previous / next recipe</td></tr><tr><td><kbd>R</kbd></td><td>Cancel drawing; reload appropriate equipped ranged equipment</td></tr><tr><td><kbd>E</kbd></td><td>Pick up items and blueprints; interact with mounted weapons</td></tr><tr><td><kbd>1–5 / Mouse wheel</kbd></td><td>Select inventory slot</td></tr><tr><td><kbd>Q</kbd></td><td>Drop selected item</td></tr><tr><td><kbd>T</kbd></td><td>Hold for voice, when enabled</td></tr><tr><td><kbd>Escape</kbd></td><td>Pause</td></tr></tbody></table></div></section><section class="wiki-section" id="faq"><h2>Quick answers</h2><details><summary>Can I draw absolutely anything?</summary><p>The game recognizes a catalog of 30 predefined recipes. Your sketch must match a known shape; it is not an unrestricted image-to-object system.</p></details><details><summary>Why didn’t my drawing appear?</summary><p>Check that you know the blueprint, have enough drawing energy, and followed its shape. Release the mouse and give the game half a second to recognize it.</p></details><details><summary>Where can I follow development?</summary><p>Visit <a href="https://wobumii.itch.io/" rel="noopener noreferrer" target="_blank">Wobumii on itch.io</a> for the studio’s updates and available projects.</p></details></section><a class="button secondary" href="/#games">← Back to the collection</a></div></div><section aria-labelledby="feedback-heading" class="wrap contact-section" id="contact">
 <div class="feedback-panel">
 <div class="feedback-intro"><p class="eyebrow">HELP SHAPE THE GAMES</p><h2 id="feedback-heading">Bug reports &amp;<br class="feedback-break"/> suggestions</h2><p>Found something that feels off? Have an idea for Project Pencil? I’d love to hear it.</p><a class="feedback-email" href="mailto:wobumii.games@gmail.com">wobumii.games@gmail.com</a><p class="feedback-note">The buttons open your email app with a subject and a few details to fill in.</p></div>
 <div class="feedback-options"><article class="feedback-card"><p class="eyebrow">SOMETHING NOT WORKING?</p><h3>Report a bug</h3><p>Include the game version, your platform, and the steps that led to the problem. A screenshot or short clip helps too.</p><a class="button primary" href="mailto:wobumii.games@gmail.com?subject=%5BProject%20Pencil%5D%20Bug%20report%3A%20&amp;body=Game%3A%20Project%20Pencil%0AVersion%3A%20%0APlatform%3A%20%0A%0AWhat%20happened%3A%20%0A%0ASteps%20to%20reproduce%3A%20%0A1.%20%0A%0AExpected%20result%3A%20%0A">Email a bug report</a></article><article class="feedback-card"><p class="eyebrow">GOT AN IDEA?</p><h3>Suggest a change</h3><p>Tell me what you’d like to see and how it would make your time in the game better.</p><a class="button secondary" href="mailto:wobumii.games@gmail.com?subject=%5BProject%20Pencil%5D%20Suggestion%3A%20&amp;body=Game%3A%20Project%20Pencil%0AVersion%3A%20%0APlatform%3A%20%0A%0AMy%20suggestion%3A%20%0A%0AWhy%20it%20would%20help%3A%20%0A">Email a suggestion</a></article></div>
